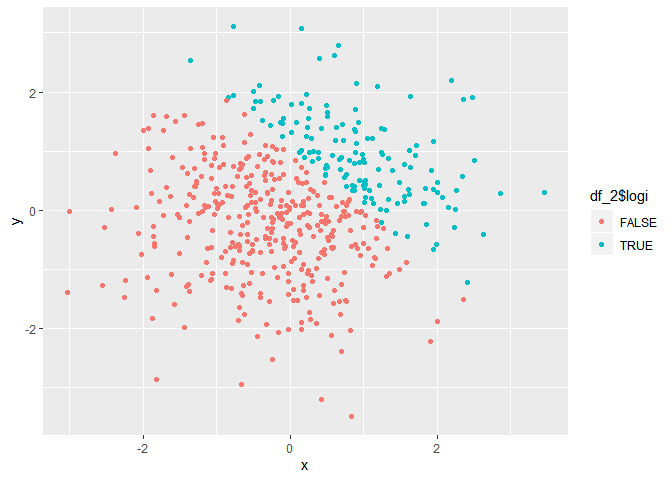
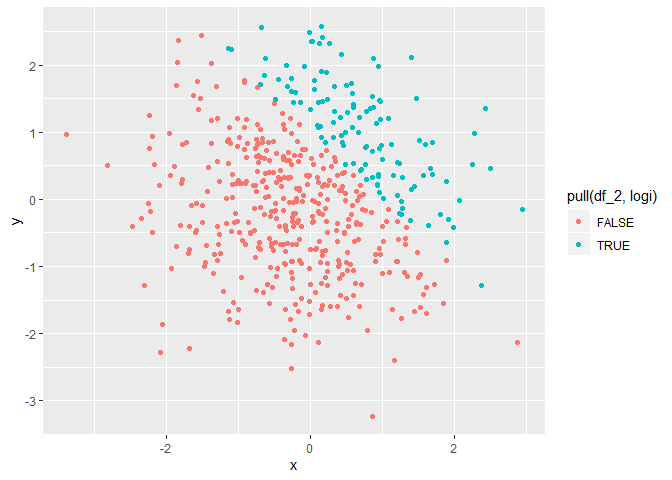
use pull function

diff --git a/p8105_hw1_jm4998.md b/p8105_hw1_jm4998.md
@@ -25,32 +25,32 @@ Then I take the mean of each variable in my dataframe to check if it
 works.
 
 ``` r
-mean(df_1$norm_samp)
+mean(pull(df_1, norm_samp))
 ```
 
-    ## [1] -0.6404489
+    ## [1] -0.2455761
 
 ``` r
-mean(df_1$norm_samp_pos)
+mean(pull(df_1, norm_samp_pos))
 ```
 
-    ## [1] 0.375
+    ## [1] 0.25
 
 ``` r
-mean(df_1$chara)
+mean(pull(df_1, chara))
 ```
 
-    ## Warning in mean.default(df_1$chara): argument is not numeric or logical:
-    ## returning NA
+    ## Warning in mean.default(pull(df_1, chara)): argument is not numeric or
+    ## logical: returning NA
 
     ## [1] NA
 
 ``` r
-mean(df_1$fact)
+mean(pull(df_1, fact))
 ```
 
-    ## Warning in mean.default(df_1$fact): argument is not numeric or logical:
-    ## returning NA
+    ## Warning in mean.default(pull(df_1, fact)): argument is not numeric or
+    ## logical: returning NA
 
     ## [1] NA
 
@@ -61,9 +61,9 @@ I try to apply “as.numeric” function to change logical, character, and
 factor variables into numeric variables.
 
 ``` r
-as.numeric(df_1$norm_samp_pos)
-as.numeric(df_1$chara)
-as.numeric(df_1$fact)
+as.numeric(pull(df_1, norm_samp_pos))
+as.numeric(pull(df_1, chara))
+as.numeric(pull(df_1, fact))
 ```
 
 The results show that logic variables can be changed to numeric
@@ -71,22 +71,23 @@ variables 0 and 1. However, character and factor variables can not be
 changed directly because their values are unknown. It counts for the
 mean function not working on character and factor variables.
 
-Finally, I do calculation using those variables.
+Finally, I do calculation using those
+variables.
 
 ``` r
-logic_num <- as.numeric(df_1$norm_samp_pos) * df_1$norm_samp
+logic_num <- as.numeric(pull(df_1, norm_samp_pos)) * pull(df_1, norm_samp)
 logic_num
 ```
 
-    ## [1] 0.08637983 0.11026925 0.00000000 0.97829578 0.00000000 0.00000000
-    ## [7] 0.00000000 0.00000000
+    ## [1] 0.0000000 0.0000000 0.5812373 0.0000000 1.3219412 0.0000000 0.0000000
+    ## [8] 0.0000000
 
 ``` r
-logic_fact <- as.factor(df_1$norm_samp_pos) * df_1$norm_samp
+logic_fact <- as.factor(pull(df_1, norm_samp_pos)) * pull(df_1, norm_samp)
 ```
 
-    ## Warning in Ops.factor(as.factor(df_1$norm_samp_pos), df_1$norm_samp): '*'
-    ## not meaningful for factors
+    ## Warning in Ops.factor(as.factor(pull(df_1, norm_samp_pos)), pull(df_1,
+    ## norm_samp)): '*' not meaningful for factors
 
 ``` r
 logic_fact
@@ -95,12 +96,13 @@ logic_fact
     ## [1] NA NA NA NA NA NA NA NA
 
 ``` r
-logic_fact_num <- as.numeric(as.factor(df_1$norm_samp_pos)) * df_1$norm_samp
+logic_fact_num <- as.numeric(as.factor(pull(df_1, norm_samp_pos))) * 
+  pull(df_1, norm_samp)
 logic_fact_num
 ```
 
-    ## [1]  0.1727597  0.2205385 -0.3363171  1.9565916 -1.0900193 -1.2789770
-    ## [7] -1.4435624 -2.1496603
+    ## [1] -0.6990212 -0.4813787  1.1624747 -0.6685834  2.6438824 -0.1356883
+    ## [7] -0.2363253 -1.6467902
 
 It shows that numeric variables can do calculation while factor
 variables can not.
@@ -121,17 +123,17 @@ df_2 = tibble(
 
 The size of the dataset is 500 rows and 5 columns.
 
-The mean of x is 0.0134729, the median of x is 0.0159819, and the
-standard deviation of x is 1.0489248.
+The mean of x is -0.0840058, the median of x is -0.1238516, and the
+standard deviation of x is 0.9915949.
 
-The proportion of cases for which x + y \> 1 is 0.282
+The proportion of cases for which x + y \> 1 is 0.238
 
 Then I show three scatterplots of *y* vs *x*.
 
 *Plot 1*
 
 ``` r
-ggplot(df_2, aes(x = x, y = y, color = df_2$logi)) + geom_point()
+ggplot(df_2, aes(x = x, y = y, color = pull(df_2, logi))) + geom_point()
 ```
 
 ![](p8105_hw1_jm4998_files/figure-gfm/yx_scatter_1-1.png)<!-- -->
@@ -145,7 +147,7 @@ ggsave("my first scatterplot for HW1.png")
 *Plot 2*
 
 ``` r
-ggplot(df_2, aes(x = x, y = y, color = df_2$num)) + geom_point()
+ggplot(df_2, aes(x = x, y = y, color = pull(df_2, num))) + geom_point()
 ```
 
 ![](p8105_hw1_jm4998_files/figure-gfm/yx_scatter_2-1.png)<!-- -->
@@ -153,22 +155,22 @@ ggplot(df_2, aes(x = x, y = y, color = df_2$num)) + geom_point()
 *Plot 3*
 
 ``` r
-ggplot(df_2, aes(x = x, y = y, color = df_2$fac)) + geom_point()
+ggplot(df_2, aes(x = x, y = y, color = pull(df_2, fac))) + geom_point()
 ```
 
 ![](p8105_hw1_jm4998_files/figure-gfm/yx_scatter_3-1.png)<!-- -->
 
 The results above shows that:
 
-1)  For all three plots, arrays are divided into two groups: one group
-    is “x + y \> 1” and the other is “x + y \<= 1”
+**(1)** For all three plots, arrays are divided into two groups: one
+group is “x + y \> 1” and the other is “x + y \<= 1”
 
-2)  ggplot has its color scale for logical variables “TRUE” and “FALSE”,
-    which is shown as pink dots and green dots in Plot 1.
+**(2)** ggplot has its color scale for logical variables “TRUE” and
+“FALSE”, which is shown as pink dots and green dots in Plot 1.
 
-3)  ggplot has a gradient color between 0 and 1, from dark blue to light
-    blue, as is shown in Plot 2.
+**(3)** ggplot has a gradient color between 0 and 1, from dark blue to
+light blue, as is shown in Plot 2.
 
-4)  If factor variables only contain levels of “TRUE” and “FALSE”, then
-    ggplot color scale is same as logical variables, as is shown in Plot
-    3.
+**(4)** If factor variables only contain levels of “TRUE” and “FALSE”,
+then ggplot color scale is same as logical variables, as is shown in
+Plot 3.
